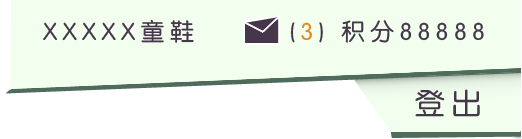
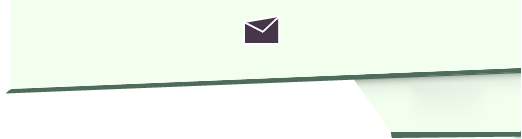
修改个人信息显示

Changed region(s): [[0.5517, 0.1439, 0.9502, 0.3165], [0.0613, 0.1439, 0.3678, 0.3165], [0.7969, 0.6331, 0.9195, 0.8633]]

diff --git a/index.html b/index.html
@@ -53,9 +53,15 @@
 		</div>
 	</div>
 	<!--canvas id="subline" width="1920" height="1080"></canvas-->
-	<div class="layer_ui" class="layer">
+	<div id="layer_ui" class="layer">
 		<img id="menu" src="resource/images/menu.png" class="close" />
-		<img id="userinfo" src="resource/images/userinfo.png" />
+		<div id="userinfo">
+			<img src="resource/images/userinfo.png" />
+			<span>刘老二童鞋</span>
+			<em>(3) 积分:888888</em>
+			<a class="logout">登出</a>
+		</div>
+		
 		<img id="logo" src="resource/images/logo.png" />	
 	</div>
 
@@ -74,47 +80,6 @@
  * bubble 尺寸与字体大小的比例 0.3072
  */
 
-//公告牌
-//var p = new Polygon([[142, 385], [142, 460], [254, 400], [254, 327]]);
-//[[274, 281], [274, 412], [450, 500], [690, 367], [690, 224], [530, 140]]
-//宿舍楼
-//var p2 = new Polygon([[274, 281], [274, 412], [450, 500], [690, 367], [690, 224], [530, 140]]);
-//树井
-//[0,501], [46, 609], [181, 629], [185, 500], [115, 448]
-//var p3 = new Polygon([[0,501], [46, 609], [181, 629], [185, 500], [115, 448]]);
-//浴室
-//[342, 553], [189, 660], [191, 722], [259, 756], [393, 761], [484, 732], [477, 650], [457, 612]
-//餐厅
-//[499, 709], [449, 835], [593, 908], [765, 820], [620, 650]
-//小卖铺
-//[892, 807], [756, 872], [760, 1000], [900, 1056], [1033, 1000], [1037, 874]
-//教学楼
-//[916, 656], [916, 780], [1104, 878], [1420, 697], [1420, 577], [1230,475]
-//图书馆
-//[553, 466],[532 519], [530, 632], [677, 702 ], [1042, 510], [1039, 417], [1006, 318], [867 ,306]
-//湖泊
-//[926, 330] ,[1085, 423], [1357, 282], [1179, 189]
-//体育馆
-//[1034, 407], [1381, 498], [1482, 548], [1723, 414], [1414, 226]
-
-
-
-
-/*
-new Bubble({
-	container: '#main',
-	left: '25%',
-	top: '20%',
-	value: 1000
-});
-
-new Bubble({
-	container: '#main',
-	left: '45%',
-	top: '20%',
-	value: 500
-});
-*/
 </script>
 </body>
 </html>

diff --git a/resource/css/style.css b/resource/css/style.css
@@ -74,6 +74,14 @@ a:hover{color:#007ad5;}
 #b_shubaoting, .bubble, #school{
 	position:absolute;
 }
+
+#layer_ui{
+}
+
+#layer_ui img{
+	display:block;
+}
+
 #menu, #logo, #userinfo{
 	position:fixed;
 }
@@ -91,8 +99,27 @@ a:hover{color:#007ad5;}
 	width:27.1875%;
 	top:0;
 	right:0;
+	font-size:1.5%;
 }
-
+#userinfo img{
+	width:100%;
+	height:20%;
+}
+#userinfo span{
+	position:absolute;
+	top:12%;
+	left:6%
+}
+#userinfo em{
+	position:absolute;
+	top:12%;
+	left:56%
+}
+#userinfo a.logout{
+	position:absolute;
+	right:6%;
+	top:65%;
+}
 #logo{
 	width:24.27083333333333%;
 	left:0;
